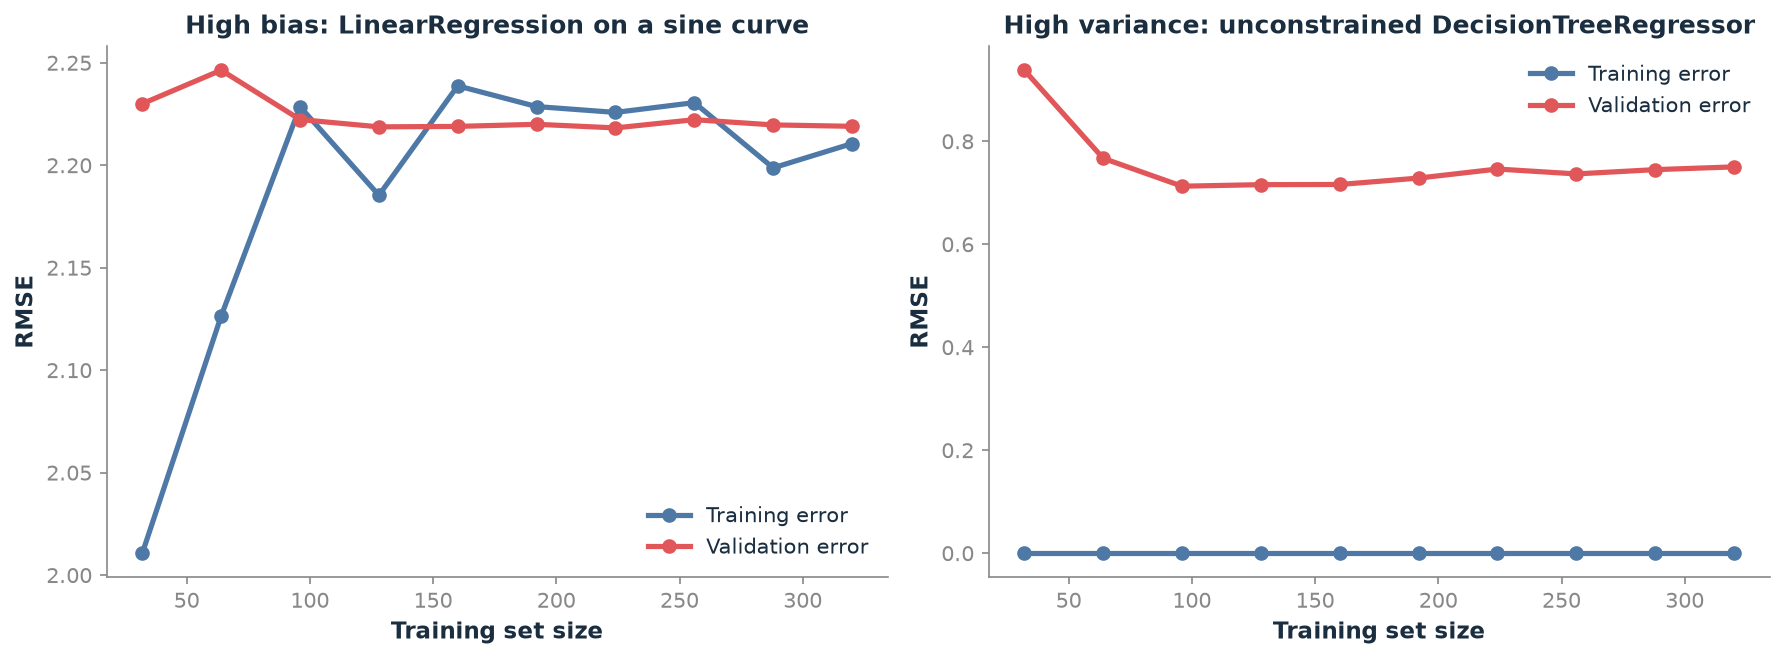
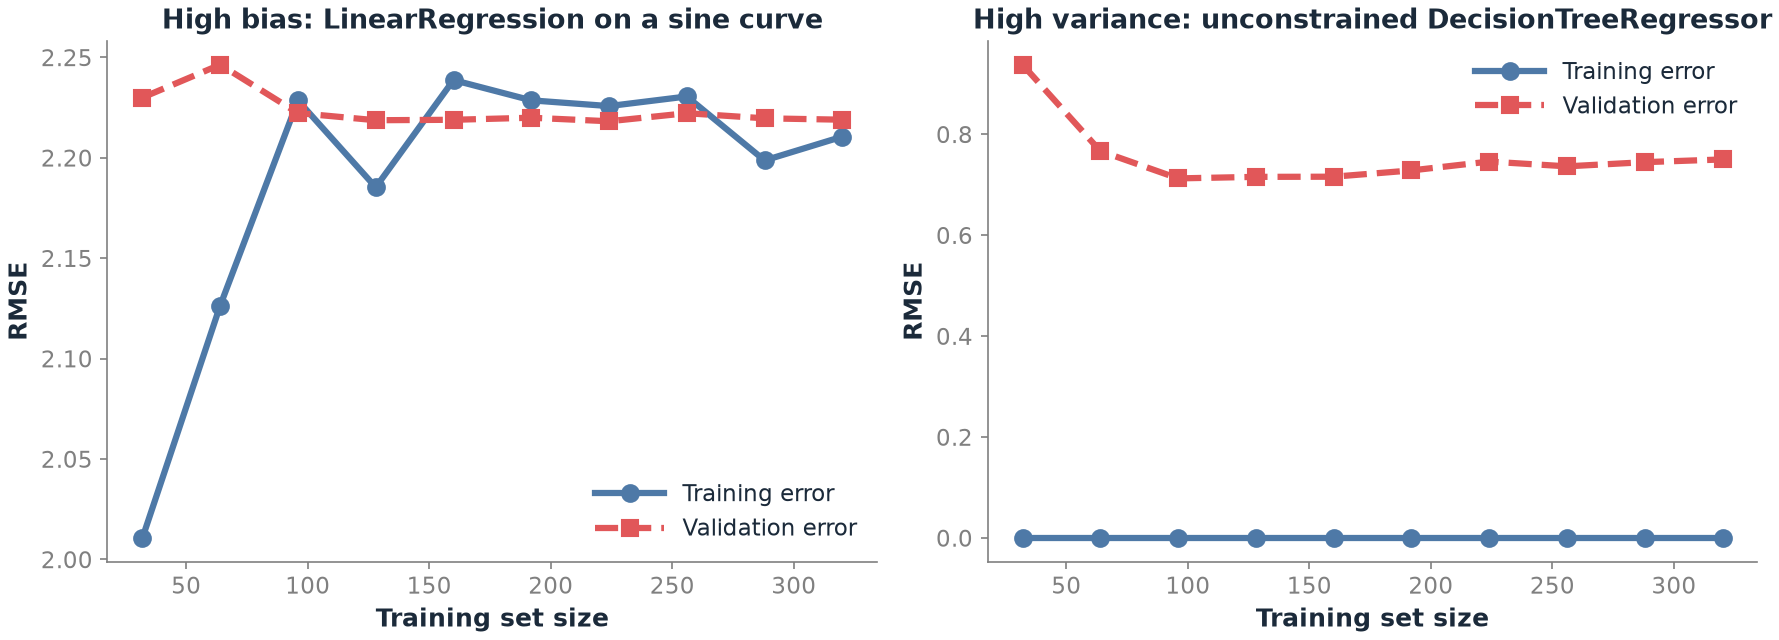
Books: Volume 1 figure and wording that work in black-ink print
Figure 18.1 draws the validation curve dashed with square markers. Chapter 15
names its clusters by shade, not colour.

diff --git a/src/lib/books/classical-data-science/chapters/ch15-feature-selection-dimensionality-reduction.html b/src/lib/books/classical-data-science/chapters/ch15-feature-selection-dimensionality-reduction.html
@@ -119,7 +119,7 @@ Figure&nbsp;15.1: The same three clusters, embedded by PCA (left) and UMAP (righ
 </figcaption>
 </figure>
 </div>
-<p><a href="#fig-pca-vs-umap-smear" class="quarto-xref">Figure&nbsp;<span>15.1</span></a> is the honest picture, not the idealised one. PCA’s top component chases the noisy nuisance dimension, since it has by far the largest variance. Two of the three clusters (purple and teal) merge into a single smeared mass, while the third (yellow) stays visibly apart. Silhouette score: 0.0073, close to the 0 that means “no cluster structure visible at all.” UMAP does better, but “better” here means partial, not perfect. Yellow separates cleanly, and purple and teal pull apart along most of their length, though they still touch where the embedding curls back on itself. Silhouette score 0.0774, roughly ten times higher than PCA’s: a real and measured improvement, not a clean sweep.</p>
+<p><a href="#fig-pca-vs-umap-smear" class="quarto-xref">Figure&nbsp;<span>15.1</span></a> is the honest picture, not the idealised one. PCA’s top component chases the noisy nuisance dimension, since it has by far the largest variance. Two of the three clusters (the dark and mid-tone points) merge into a single smeared mass, while the third (the lightest) stays visibly apart. Silhouette score: 0.0073, close to the 0 that means “no cluster structure visible at all.” UMAP does better, but “better” here means partial, not perfect. The lightest cluster separates cleanly, and the dark and mid-tone clusters pull apart along most of their length, though they still touch where the embedding curls back on itself. Silhouette score 0.0774, roughly ten times higher than PCA’s: a real and measured improvement, not a clean sweep.</p>
 <p>t-SNE, run on the same data with its default settings, is the surprise: 0.0033, worse than PCA, not better. That’s not a bug in the method. t-SNE builds its neighbourhood graph from distances measured in the <em>original</em> feature space, the same space where the noise dimension’s huge scale already dominates every pairwise distance. A method built to preserve local neighbourhoods still inherits whatever those neighbourhoods look like in the raw data, noise dimension included, unless something else, a smaller perplexity, a prior scaling step, counteracts it. Rerunning with <code>perplexity=12</code> instead of the default 30 gives 0.107, better than UMAP, on the exact same data. That swing, from worse-than-PCA to better-than-UMAP on one hyperparameter change, is the sensitivity this chapter’s Trade-offs section warns about, made concrete.</p>
 <p>The moral isn’t “UMAP is better than PCA,” and it isn’t “t-SNE and UMAP always fix this” either. PCA’s global-variance objective can be actively misled by a single noisy, high-variance column that has nothing to do with the structure that matters. A local-structure method recovers <em>some</em> of what PCA lost, but only if its own settings are tuned to the data, and a default configuration is no guarantee of that. That’s exactly why it’s worth looking at the real picture, with real numbers, instead of assuming the textbook one.</p>
 <p>There are three separate reasons their output shouldn’t feed a model, though. First: both are typically non-parametric in their classic form. There’s no simple <code>transform()</code> for new data with the same guarantee as the fitted embedding. UMAP supports <code>transform()</code> with caveats, while classic t-SNE does not, without retraining on the combined dataset. Second: distances <em>between</em> clusters in the embedding aren’t meaningful. Only local neighbourhood structure within a cluster is preserved reliably, so two clusters that look far apart aren’t necessarily “more different” than two that look close. Third: both are stochastic and sensitive to hyperparameters (perplexity for t-SNE; <code>n_neighbors</code> and <code>min_dist</code> for UMAP). Rerunning with a different seed or parameter can meaningfully change the layout. That’s fine for a one-off exploratory plot, but a poor foundation for a reproducible production feature. Use t-SNE and UMAP to look at data: check whether classes separate, spot outlier clusters, sanity-check a clustering result from Chapter 19. Use PCA, or regular feature selection, when reduced dimensions need to feed a model.</p>

diff --git a/src/lib/books/classical-data-science/chapters/ch18-regularization.html b/src/lib/books/classical-data-science/chapters/ch18-regularization.html
@@ -42,8 +42,8 @@ Listing&nbsp;18.1: Learning curves for an underfit model (left) and an overfit m
 <span id="cb1-21">    )</span>
 <span id="cb1-22">    ax.plot(ts, <span class="op">-</span>train_scores.mean(axis<span class="op">=</span><span class="dv">1</span>), color<span class="op">=</span><span class="st">'#4E79A7'</span>, marker<span class="op">=</span><span class="st">'o'</span>,</span>
 <span id="cb1-23">            label<span class="op">=</span><span class="st">'Training error'</span>)</span>
-<span id="cb1-24">    ax.plot(ts, <span class="op">-</span>val_scores.mean(axis<span class="op">=</span><span class="dv">1</span>), color<span class="op">=</span><span class="st">'#E15759'</span>, marker<span class="op">=</span><span class="st">'o'</span>,</span>
-<span id="cb1-25">            label<span class="op">=</span><span class="st">'Validation error'</span>)</span>
+<span id="cb1-24">    ax.plot(ts, <span class="op">-</span>val_scores.mean(axis<span class="op">=</span><span class="dv">1</span>), color<span class="op">=</span><span class="st">'#E15759'</span>, marker<span class="op">=</span><span class="st">'s'</span>,</span>
+<span id="cb1-25">            linestyle<span class="op">=</span><span class="st">'--'</span>, label<span class="op">=</span><span class="st">'Validation error'</span>)</span>
 <span id="cb1-26">    ax.set_xlabel(<span class="st">'Training set size'</span>)</span>
 <span id="cb1-27">    ax.set_ylabel(<span class="st">'RMSE'</span>)</span>
 <span id="cb1-28">    ax.set_title(title)</span>
